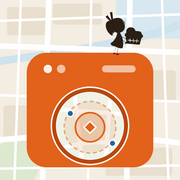
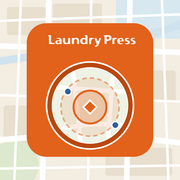
ホーム画面アイコンを女の子なし・Laundry Press の文字入りに変更 (#2)
Claude-Session: https://claude.ai/code/session_01WJUDvpPB85XG8xak3bh3j1

diff --git a/index.html b/index.html
@@ -5,8 +5,8 @@
 <meta name="viewport" content="width=device-width,initial-scale=1,viewport-fit=cover">
 <title>ランドリー商圏ナビ</title>
 <meta name="theme-color" content="#ffffff">
-<link rel="manifest" href="manifest.webmanifest?v=2">
-<link rel="apple-touch-icon" sizes="180x180" href="apple-touch-icon.png?v=2">
+<link rel="manifest" href="manifest.webmanifest?v=3">
+<link rel="apple-touch-icon" sizes="180x180" href="apple-touch-icon.png?v=3">
 <meta name="apple-mobile-web-app-capable" content="yes">
 <meta name="apple-mobile-web-app-title" content="商圏ナビ">
 <link rel="stylesheet" href="vendor/leaflet/leaflet.css">
